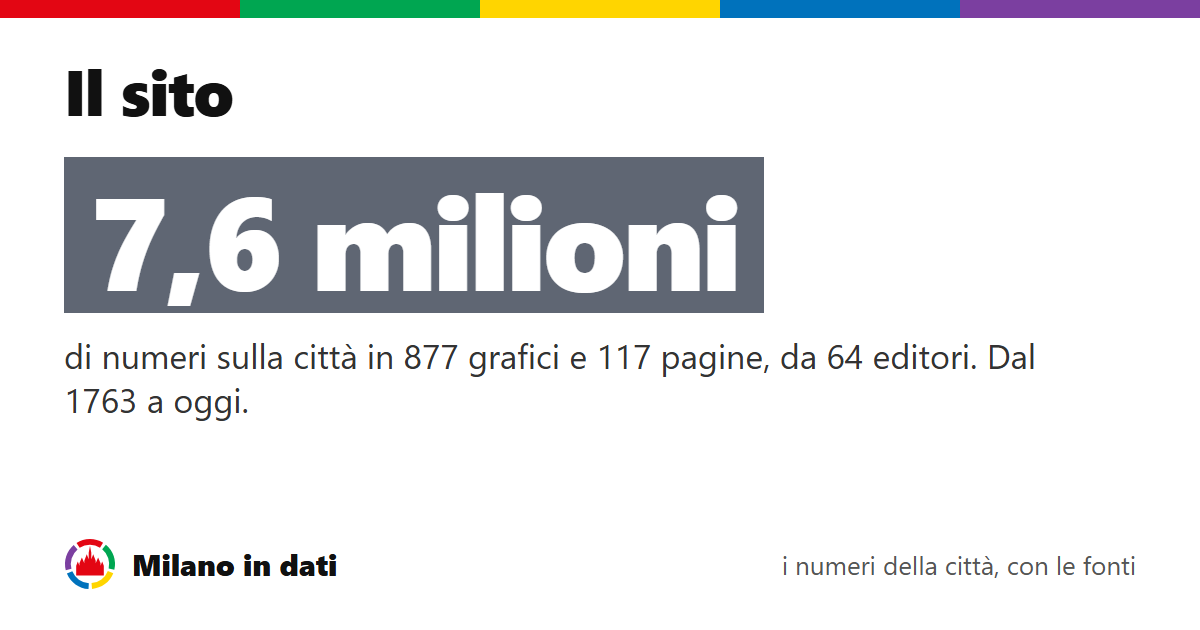
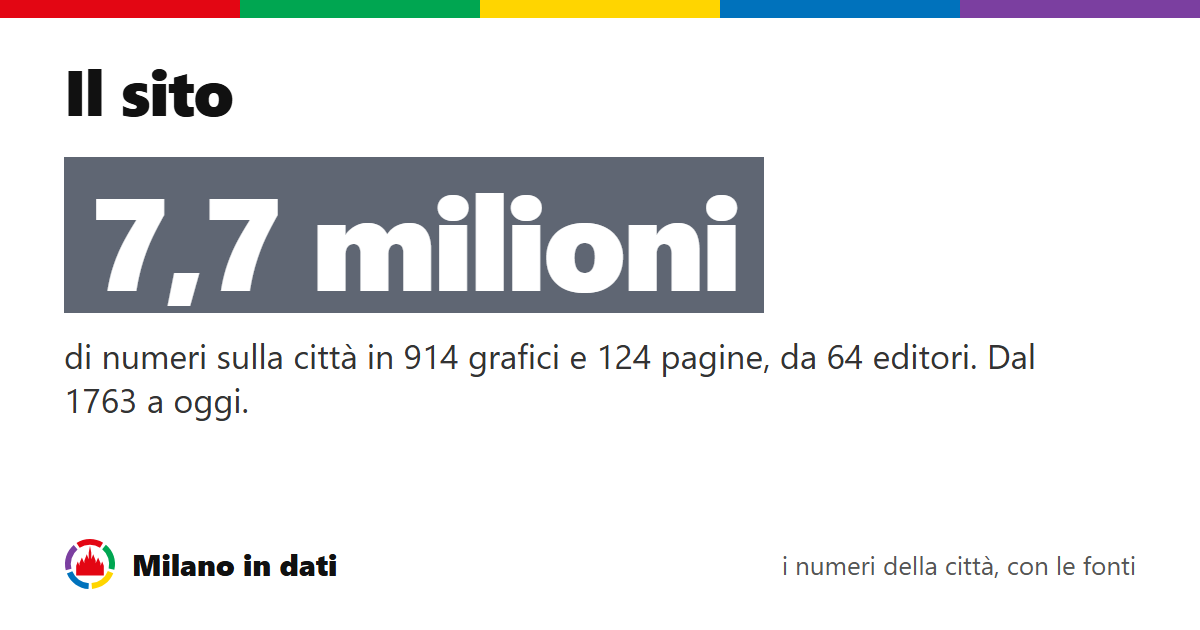
Avviso cookie e Google Analytics (solo dopo il consenso); sezione Visite e cookie in Il sito

Changed region(s): [[0.1542, 0.3016, 0.2467, 0.4825], [0.4933, 0.5429, 0.555, 0.6032], [0.3392, 0.5429, 0.4008, 0.6032]]

diff --git a/docs/il-sito/index.html b/docs/il-sito/index.html
@@ -1,6 +1,6 @@
 <!doctype html>
 <html lang="it"><head><meta charset="utf-8"><link rel="icon" href="../favicon.svg" type="image/svg+xml"><link rel="icon" href="../favicon.ico" sizes="48x48"><link rel="apple-touch-icon" href="../apple-touch-icon.png"><meta name="viewport" content="width=device-width,initial-scale=1">
-<title>Milano in dati · Il sito</title><!--condividi--><meta property="og:type" content="website"><meta property="og:site_name" content="Milano in dati"><meta property="og:locale" content="it_IT"><meta property="og:title" content="Il sito · Milano in dati"><meta property="og:description" content="Quante pagine, grafici, numeri e fonti ci sono in Milano in dati, da dove vengono i dati e chi ha costruito il sito, Davide Caniatti."><meta property="og:url" content="https://milanoindati.it/il-sito/"><meta property="og:image" content="https://milanoindati.it/il-sito/condividi.png"><meta property="og:image:secure_url" content="https://milanoindati.it/il-sito/condividi.png"><meta property="og:image:type" content="image/png"><meta property="og:image:width" content="1200"><meta property="og:image:height" content="630"><meta property="og:image:alt" content="Il sito: 7,7 milioni di numeri sulla città in 914 grafici e 124 pagine, da 64 editori. Dal 1763 a oggi."><meta name="twitter:card" content="summary_large_image"><meta name="twitter:title" content="Il sito · Milano in dati"><meta name="twitter:description" content="Quante pagine, grafici, numeri e fonti ci sono in Milano in dati, da dove vengono i dati e chi ha costruito il sito, Davide Caniatti."><meta name="twitter:image" content="https://milanoindati.it/il-sito/condividi.png"><!--/condividi--><!--seo--><meta name="description" content="Quante pagine, grafici, numeri e fonti ci sono in Milano in dati, da dove vengono i dati e chi ha costruito il sito, Davide Caniatti."><link rel="canonical" href="https://milanoindati.it/il-sito/"><meta name="theme-color" content="#E30613"><link rel="manifest" href="https://milanoindati.it/site.webmanifest"><script type="application/ld+json">{"@context":"https://schema.org","@type":"WebPage","name":"Il sito","description":"Quante pagine, grafici, numeri e fonti ci sono in Milano in dati, da dove vengono i dati e chi ha costruito il sito, Davide Caniatti.","url":"https://milanoindati.it/il-sito/","inLanguage":"it-IT","dateModified":"2026-11-10","isPartOf":{"@type":"WebSite","name":"Milano in dati","url":"https://milanoindati.it/"},"author":{"@type":"Person","name":"Davide Caniatti","url":"https://davidecaniatti.com","sameAs":["https://davidecaniatti.com","https://davidecaniatti96.substack.com"]}}</script><!--/seo-->
+<title>Milano in dati · Il sito</title><!--condividi--><meta property="og:type" content="website"><meta property="og:site_name" content="Milano in dati"><meta property="og:locale" content="it_IT"><meta property="og:title" content="Il sito · Milano in dati"><meta property="og:description" content="Quante pagine, grafici, numeri e fonti ci sono in Milano in dati, da dove vengono i dati e chi ha costruito il sito, Davide Caniatti."><meta property="og:url" content="https://milanoindati.it/il-sito/"><meta property="og:image" content="https://milanoindati.it/il-sito/condividi.png"><meta property="og:image:secure_url" content="https://milanoindati.it/il-sito/condividi.png"><meta property="og:image:type" content="image/png"><meta property="og:image:width" content="1200"><meta property="og:image:height" content="630"><meta property="og:image:alt" content="Il sito: 7,7 milioni di numeri sulla città in 914 grafici e 124 pagine, da 64 editori. Dal 1763 a oggi."><meta name="twitter:card" content="summary_large_image"><meta name="twitter:title" content="Il sito · Milano in dati"><meta name="twitter:description" content="Quante pagine, grafici, numeri e fonti ci sono in Milano in dati, da dove vengono i dati e chi ha costruito il sito, Davide Caniatti."><meta name="twitter:image" content="https://milanoindati.it/il-sito/condividi.png"><!--/condividi--><!--seo--><meta name="description" content="Quante pagine, grafici, numeri e fonti ci sono in Milano in dati, da dove vengono i dati e chi ha costruito il sito, Davide Caniatti."><link rel="canonical" href="https://milanoindati.it/il-sito/"><meta name="theme-color" content="#E30613"><link rel="manifest" href="https://milanoindati.it/site.webmanifest"><script type="application/ld+json">{"@context":"https://schema.org","@type":"WebPage","name":"Il sito","description":"Quante pagine, grafici, numeri e fonti ci sono in Milano in dati, da dove vengono i dati e chi ha costruito il sito, Davide Caniatti.","url":"https://milanoindati.it/il-sito/","inLanguage":"it-IT","dateModified":"2026-11-15","isPartOf":{"@type":"WebSite","name":"Milano in dati","url":"https://milanoindati.it/"},"author":{"@type":"Person","name":"Davide Caniatti","url":"https://davidecaniatti.com","sameAs":["https://davidecaniatti.com","https://davidecaniatti96.substack.com"]}}</script><!--/seo-->
 <style>
 :root{
   --ink:#0b0d12;--ink2:#2f3440;--mut:#5f6673;--grid:#e6e8ec;--axis:#9aa1ad;--bg:#fff;--soft:#f4f5f7;
@@ -67,7 +67,7 @@ footer{margin:2em 0 0;font-size:.78rem;color:var(--mut);border-top:1px solid var
 </style><script src="../menu.js" defer></script></head><body><main>
 
 <h1>Il sito</h1>
-<p class="lead" id="apertura">Un attimo, conto le pagine.</p><!--statico--><div class="statico"><p>Milano raccontata con 7,6 milioni di numeri, in 877 grafici su 117 pagine, da 64 editori diversi.</p><ul><li><a href="#per-tema"><strong>117</strong> pagine, quante ne conta il menu</a></li><li><a href="#ricche"><strong>877</strong> grafici e mappe da guardare e toccare</a></li><li><a href="#ricche"><strong>7,6 milioni</strong> di numeri nei dati, uno per uno</a></li><li><strong>64</strong> editori diversi da cui arrivano i dati: l’elenco è in Fonti e metodo</li><li><a href="#tempo"><strong>264 anni</strong> di dati, dal 1763 a oggi</a></li><li><a href="#come"><strong>2.555</strong> file di dati, 77 MB in tutto</a></li></ul><ol><li><a href="#t-tema">Le pagine, tema per tema</a></li><li><a href="#ricche">Le pagine più ricche</a></li><li><a href="#t-tempo">Da quando ci sono dati</a></li></ol></div><!--/statico-->
+<p class="lead" id="apertura">Un attimo, conto le pagine.</p><!--statico--><div class="statico"><p>Milano raccontata con 7,7 milioni di numeri, in 914 grafici su 124 pagine, da 64 editori diversi.</p><ul><li><a href="#per-tema"><strong>124</strong> pagine, quante ne conta il menu</a></li><li><a href="#ricche"><strong>914</strong> grafici e mappe da guardare e toccare</a></li><li><a href="#ricche"><strong>7,7 milioni</strong> di numeri nei dati, uno per uno</a></li><li><strong>64</strong> editori diversi da cui arrivano i dati: l’elenco è in Fonti e metodo</li><li><a href="#tempo"><strong>264 anni</strong> di dati, dal 1763 a oggi</a></li><li><a href="#come"><strong>2.606</strong> file di dati, 79 MB in tutto</a></li></ul><ol><li><a href="#t-tema">Le pagine, tema per tema</a></li><li><a href="#ricche">Le pagine più ricche</a></li><li><a href="#t-tempo">Da quando ci sono dati</a></li></ol></div><!--/statico-->
 
 <div class="hl" id="hl"></div>
 <p class="src" id="agg"></p>
@@ -111,6 +111,11 @@ footer{margin:2em 0 0;font-size:.78rem;color:var(--mut);border-top:1px solid var
   <li style="--c:var(--m4)"><b>Programmi e note su GitHub</b>I programmi che preparano i dati e le note di lavoro sono aperti: <a href="https://github.com/AndreottiVIII/milano-in-dati">github.com/AndreottiVIII/milano-in-dati</a>.</li>
   <li style="--c:var(--ar)"><b>Numeri che si ricalcolano da soli</b>I numeri di questa pagina si ricalcolano a ogni aggiornamento del sito: quando si aggiunge una pagina, crescono da soli.</li>
 </ul>
+
+<h2 id="visite">Visite e cookie</h2>
+<p>Per sapere quali pagine vengono lette, il sito conta le visite con Google Analytics, ma solo se lo accetti nell’avviso che compare alla prima visita. In quel caso Google Analytics salva dei cookie sul tuo dispositivo, che durano fino a due anni, e riceve la pagina che guardi, il tipo di dispositivo e la città approssimativa. Google non conserva il tuo indirizzo IP. I dati non servono per la pubblicità e non vengono incrociati con altri servizi di Google.</p>
+<p>Se rifiuti, niente cookie e niente conteggio. Il sito non usa altri cookie.</p>
+<p><button type="button" onclick="window.midCookie&&window.midCookie()" style="font:inherit;font-weight:700;min-height:44px;padding:8px 16px;background:var(--ink);color:#fff;border:2px solid var(--ink);cursor:pointer">Cambia la scelta sui cookie</button></p>
 
 <details class="fondo" style="border-top:3px solid var(--ink);border-bottom:1px solid var(--grid)">
   <summary style="cursor:pointer;padding:14px 0;font-weight:750;font-size:1.05rem;min-height:48px;display:flex;align-items:center">Come si contano i numeri</summary>

diff --git a/docs/menu.js b/docs/menu.js
@@ -818,3 +818,86 @@
     window.addEventListener('scroll', function () { if (!tend.hidden) posiziona(); }, { passive: true });
   } catch (e6) { /* senza tendina, i campi restano come erano */ }
 })();
+
+/* Visite: Google Analytics parte SOLO dopo "Accetto" nell'avviso cookie (stessa evidenza ai due pulsanti,
+   chiudere senza scegliere = nessun conteggio). La scelta resta nel browser (localStorage 'mid-cookie').
+   La pagina il-sito/#visite spiega tutto e ha il pulsante per cambiare scelta (window.midCookie()).
+   Fuori da milanoindati.it (anteprime in locale, controlli automatici) Analytics non parte mai;
+   con navigator.webdriver (i controlli automatici) l'avviso non si mostra, per non coprire i grafici. */
+(function () {
+  'use strict';
+  var ID = 'G-T3DC886QPS', CHIAVE = 'mid-cookie';
+  var src = (document.currentScript && document.currentScript.src) || '';
+  var RADICE = src ? src.replace(/menu\.js(\?.*)?$/, '') : '/';
+  var SITO = /(^|\.)milanoindati\.it$/.test(location.hostname) && !/\/anteprima\//.test(location.pathname);
+  function leggi() { try { return localStorage.getItem(CHIAVE); } catch (e) { return null; } }
+  function scrivi(v) { try { localStorage.setItem(CHIAVE, v); } catch (e) { /* niente */ } }
+  var partito = false;
+  function avvia() {
+    if (partito || !SITO) return;
+    partito = true;
+    window.dataLayer = window.dataLayer || [];
+    window.gtag = function () { window.dataLayer.push(arguments); };
+    window.gtag('js', new Date());
+    window.gtag('config', ID, { allow_google_signals: false, allow_ad_personalization_signals: false });
+    var s = document.createElement('script');
+    s.async = true;
+    s.src = 'https://www.googletagmanager.com/gtag/js?id=' + ID;
+    document.head.appendChild(s);
+  }
+  function togliCookie() {
+    document.cookie.split(';').forEach(function (c) {
+      var n = c.split('=')[0].trim();
+      if (!/^_ga/.test(n)) return;
+      ['', location.hostname, '.' + location.hostname.replace(/^www\./, '')].forEach(function (d) {
+        document.cookie = n + '=; Max-Age=0; path=/' + (d ? '; domain=' + d : '');
+      });
+    });
+  }
+  var box = null;
+  function chiudi() { if (box && box.parentNode) box.parentNode.removeChild(box); box = null; }
+  function scegli(v) {
+    var prima = leggi();
+    scrivi(v);
+    chiudi();
+    if (v === 'si') avvia();
+    else { togliCookie(); if (prima === 'si' && partito) location.reload(); }
+  }
+  function mostra() {
+    if (box || !document.body) return;
+    if (!document.getElementById('mid-ck-stile')) {
+      var st = document.createElement('style');
+      st.id = 'mid-ck-stile';
+      st.textContent =
+        '#mid-ck{position:fixed;left:12px;right:12px;bottom:12px;z-index:2147483000;max-width:560px;margin:0 auto;box-sizing:border-box;' +
+        'background:#fff;color:#0b0d12;border:3px solid #0b0d12;border-top:6px solid #E30613;padding:14px 16px;' +
+        'font:15px/1.4 system-ui,-apple-system,"Segoe UI",Roboto,Arial,sans-serif;box-shadow:0 6px 24px rgba(0,0,0,.18)}' +
+        '#mid-ck p{margin:0 0 12px}' +
+        '#mid-ck a{color:#0b0d12;text-decoration:underline;text-underline-offset:2px}' +
+        '#mid-ck .mid-ck-b{display:flex;gap:10px}' +
+        '#mid-ck button{flex:1 1 0;min-height:44px;font:inherit;font-weight:700;font-size:15px;cursor:pointer;' +
+        'background:#0b0d12;color:#fff;border:2px solid #0b0d12;padding:8px 12px}' +
+        '#mid-ck button:hover{background:#2f3440}' +
+        '@media print{#mid-ck{display:none}}';
+      document.head.appendChild(st);
+    }
+    box = document.createElement('div');
+    box.id = 'mid-ck';
+    box.setAttribute('role', 'region');
+    box.setAttribute('aria-label', 'Avviso sui cookie');
+    box.innerHTML =
+      '<p>Questo sito conta le visite con Google Analytics, che usa dei cookie. Serve solo a sapere quali pagine vengono lette: niente pubblicità. <a href="' + RADICE + 'il-sito/#visite">Come funziona</a></p>' +
+      '<div class="mid-ck-b"><button type="button" data-v="si">Accetto</button><button type="button" data-v="no">Rifiuto</button></div>';
+    box.addEventListener('click', function (e) {
+      var b = e.target.closest ? e.target.closest('button[data-v]') : null;
+      if (b) scegli(b.getAttribute('data-v'));
+    });
+    document.body.appendChild(box);
+  }
+  window.midCookie = mostra;
+  var scelta = leggi();
+  if (scelta === 'si') avvia();
+  else if (scelta !== 'no' && !navigator.webdriver) {
+    if (document.readyState === 'loading') document.addEventListener('DOMContentLoaded', mostra); else mostra();
+  }
+})();
